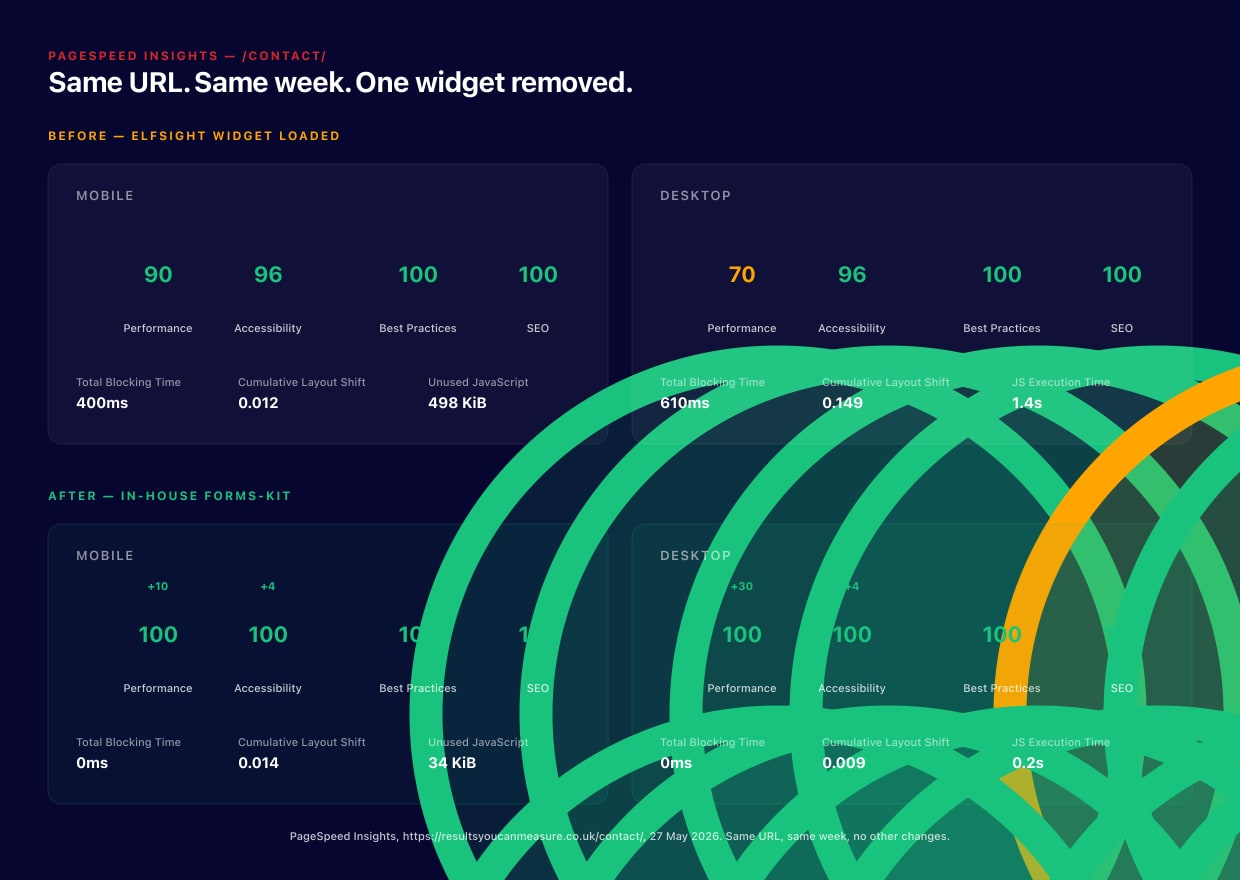
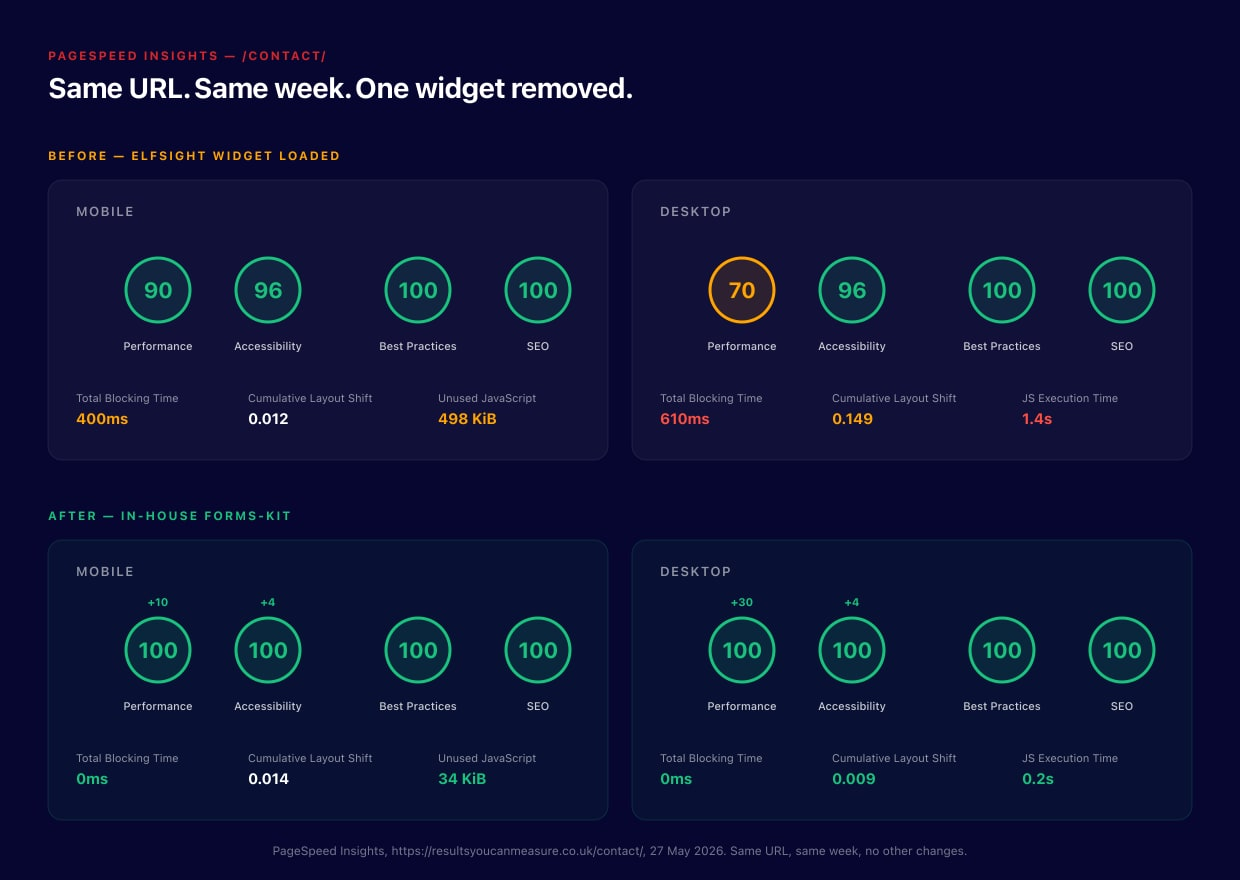
Fix blog hero rendering + correct portfolio numbers
- Hero SVG rewritten without <symbol>/<use> (librsvg renders them at
  full SVG viewport, not the symbol viewBox — that's where the giant
  overlapping green rings on the original rasterisation came from).
  Re-rasterised to JPG. Now clean: 4 panels, 16 score circles, no
  overlap.
- Removed orphan elfsight-100s-closing.svg from public/assets/blog/
  (no longer referenced anywhere).
- Corrected the portfolio number from 'twenty client websites' to
  'just over a hundred client websites, around twenty of which use
  Elfsight or similar widgets'. Cost arithmetic unchanged (seven
  plans, ~£3,000 / 3 years) but framing now accurate.
- Generalised the agency-implications paragraph so it no longer
  uses a specific portfolio-size example.

diff --git a/src/content/blog/replacing-elfsight-with-an-in-house-form.md b/src/content/blog/replacing-elfsight-with-an-in-house-form.md
@@ -97,7 +97,7 @@ The Elfsight plan I was on costs $15 per month (about £12), and that covers thr
 | Performance impact | -30 Lighthouse Performance on desktop | None |
 | Cookie consent posture | Requires gating Elfsight behind opt-in (or accepting that the cookie policy is inaccurate) | Nothing to gate |
 
-The per-site number is where this stops being a small saving and starts being structural. We manage somewhere in the region of twenty client websites. At three domains per plan we would need seven Elfsight subscriptions to cover them all, which is **$105 per month, or roughly £3,000 over three years, for the same form on the same number of pages**. For one feature.
+The per-site number is where this stops being a small saving and starts being structural. We manage just over a hundred client websites. Roughly twenty of them currently use Elfsight or a comparable third-party form / popup / embed widget that could be replaced with the same in-house pattern we just used on our own site. At three domains per plan that is **seven Elfsight subscriptions, $105 per month, or about £3,000 over three years, for one feature on twenty sites**. The other eighty are mostly older builds that don't yet have a contact form to migrate, or sit on a different stack we won't touch this quarter.
 
 Our in-house form is doing the same job on three of those sites today, with submissions landing in the relevant inbox, on UK servers, under retention rules we set ourselves. The rest are scheduled across the next quarter as part of natural refresh cycles or new builds.
 
@@ -143,7 +143,7 @@ The line is roughly: pay for what you cannot replicate; build what only requires
 
 ## What this means for agencies
 
-If you build websites for a living, this is the change you cannot keep ignoring. Every client site you ship that depends on a paid plugin has an ongoing cost (paid by the client, or absorbed by you on a managed-care plan) and a performance penalty (paid by every visitor). Both costs scale with traffic and with portfolio size. At three-domains-per-plan pricing, a fifty-site portfolio is paying for seventeen subscriptions to deliver one feature.
+If you build websites for a living, this is the change you cannot keep ignoring. Every client site you ship that depends on a paid plugin has an ongoing cost (paid by the client, or absorbed by you on a managed-care plan) and a performance penalty (paid by every visitor). Both costs scale with traffic and with portfolio size. Across an agency portfolio of any meaningful size, the widget-licence line on the books is doing very little work for the money.
 
 Owning the equivalent infrastructure ourselves means our clients' enquiries land directly in our clients' inboxes, on UK servers, with full audit trails, with no third-party scripts running in their visitor's browsers, and with no monthly subscription bills attached.
 